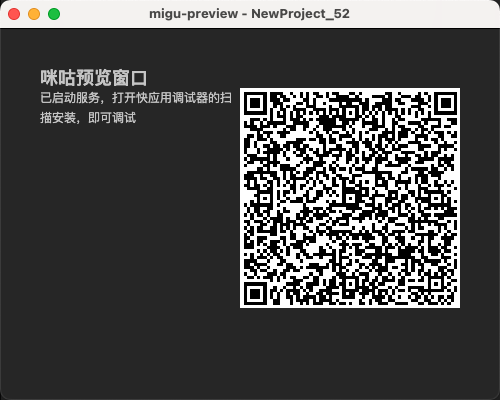
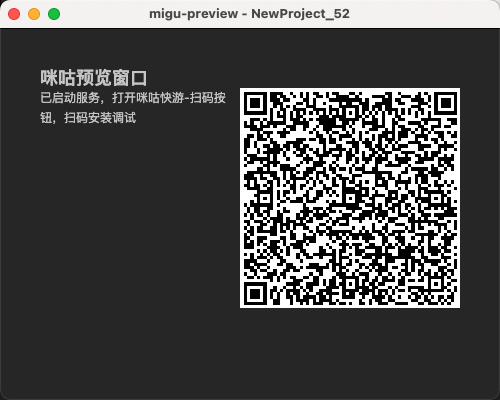
add 3.8 英文文档

Changed region(s): [[0.27, 0.21, 0.48, 0.27], [0.06, 0.27, 0.24, 0.33], [0.99, 0.0, 1.0, 0.03]]

diff --git a/versions/3.8/en/editor/publish/publish-migu-mini-game.md b/versions/3.8/en/editor/publish/publish-migu-mini-game.md
@@ -1,0 +1,61 @@
+# Publish to Migu Mini Games
+
+## Preparation Work
+
+- Refer [Migu Mini Games Integration Guide](https://open.migufun.com/document/detail?id=640), complete the developer registration process and app creation on the Migu Open Platform.
+
+- Download [Migu Quick Game](https://g.migufun.com/cocosdebugtool) and install it on your mobile device.
+
+- The minimum version required for Migu Quick Game is Android 5.0.
+
+## Build Options
+
+Open the project you want to publish with Cocos Creator, and from the Menu Bar -> Project, open the Build and Publish panel, select Migu Mini Games as the Publish Platform.
+
+![build](./publish-migu-mini-game/build.png)
+
+General build options can be set according to [General Build Options](build-options.md). The specific build options for Migu Mini Games are as follows:
+
+![build option](./publish-migu-mini-game/build-option.png)
+
+| Name | Optional | Description | Field name |
+| :-- | :-- | :-- | :-- |
+| **Game Package Name** | required | such as `com.example.demo` | `package` |
+| **Desktop Icon** | required | Click the **search icon** button at the back of the input box to select the icon you want. When building, the **Desktop Icon** will be built into the Migu Mini Game project. It is suggested to use `PNG` images for the **Desktop Icon**. | `icon` |
+| **Game Version Name** | required | **Game Version Name** is the real version, such as: **1.0.0**. | `versionName` |
+| **Game Version Number** | required |  **Game Version Number** is different from the **Game Version Name**, and the **Game Version Number** is mainly used to distinguish the version update. Each time when you submit audit, the game version number is at least 1 higher than the value of the last submitted audit. It must not be equal to or less than the value of the last submitted audit, and it is recommended that the **Game Version Number** be recursively incremented by 1 each time when the audit is submitted. | `versionCode` |
+| **Supported Minimum Platform Version Number** | required | Please refer to [Official Documentation [cn]](https://open.migufun.com/document/detail?id=640) to check the latest version number of Migu engine. | `minPlatformVersion` |
+| **APPID** | required | The ID assigned by the Migu Open Cooperation Platform for content, it will be written in `manifest.json`.| `appId` |
+| **APPKEY** | required | The Key assigned by the Migu Open Cooperation Platform for content, it will be written in `manifest.json`.| `appKey` |
+| **Screen orientation** | - | Device direction, it will be written in `manifest.json`.| `orientation` |
+
+### Building
+
+After setting the build options in the **Build and Publish** panel, click the **Build and Generate** button.
+
+After completion, click the folder icon button at the bottom left of **Build Task** to open the project's published package. You can see that a `migu-mini-game` folder (subject to the specific build task name) is generated in the default publish path build directory. This folder is the exported Migu Quick Game project directory and rpk, and the rpk package is in the `build/migu-mini-game/dist` directory.
+
+![package](./publish-migu-mini-game/package.png)
+
+If you need to modify the generated rpk package, after making changes, click the **Generate** button at the bottom right of **Build Task** to regenerate the rpk package without rebuilding.
+
+## Run the rpk
+
+Click the **Run** button in the **Build and Publish** panel and wait for the QR code interface to generate.
+
+![](./publish-migu-mini-game/qr_code.png)
+
+Then, on the Android device, open the previously installed **Migu Quick Game**, click the **Scan** button in the upper right corner of the **My page**, and scan the QR code to open the rpk directly.
+
+![](./publish-migu-mini-game/migu-instant_scan_install.png)
+
+## Migu Mini Game Environment Resource Management
+
+The part of migu mini games that exceed the package size limit must be downloaded through the network.
+
+Cocos Creator helps developers to download, cache and manage remote resources. For details, please refer to [Resource Management](../../asset/cache-manager.md).
+
+## Reference documentation
+
+- [Migu Mini Games Integration Guide](https://open.migufun.com/document/detail?id=640)
+- [Migu Quick Game](https://g.migufun.com/cocosdebugtool)
